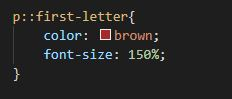
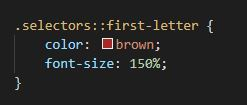
Fixes

Changed region(s): [[0.0302, 0.0909, 0.875, 0.6667], [0.0603, 0.6667, 0.0905, 0.8788], [0.5733, 0.0909, 0.6034, 0.1212]]

diff --git a/index.html b/index.html
@@ -9,12 +9,6 @@
             width: 45%;
         }
 
-        p::first-letter{
-            color: brown;
-            font-size: 150%;
-        }
-
-
         div.desc {
             font-family: 'Lucida Sans', 'Lucida Sans Regular', 'Lucida Grande', 'Lucida Sans Unicode', Geneva, Verdana, sans-serif;
             font-style: oblique;
@@ -107,12 +101,14 @@
         </div>
         
         <h4>CSS Selectors</h4>
-        <p style="width: 90%;">
+        <p class="selectors">
             CSS selections are used within CSS to highlight a certain portion of the HTML sheet and change how it looks, often done by
             selecting a certain type of class or element. However, there are many different selections which can
             let the designer set elements to selected depending on an event. These are split into 5 different types of selectors, the first 
-            being simple selectors.<br>
-            <br>
+            being simple selectors.
+        </p>
+
+        <p class="selectors">
             <span>Simple selectors</span> - Simple selectors get their name from the fact that they operate simply
             by selecting what the element or class is, for example, a paragraph or header. For example, the "Cascading Style Sheets"
             title of this page uses a simple CSS selector to make the element animated.<br>
@@ -120,10 +116,11 @@
                 <a target="_blank" href="simpleselect.JPG">
                     <img src="simpleselect.JPG" alt="SimpleSelectorExample" width="227" height="123">
                 </a>
-                <div class="desc">Figure 2 - Example of a simple selector.
-                </div>
+                <div class="desc">Figure 2 - Example of a simple selector.</div>
             </div>
-            <br>
+        </p>
+
+        <p class="selectors">
             <span>Combinator selectors</span> - Combinator selectors function slightly differently from simple selectors as
             they select elements depending on how they relate to each other. An example of a combinator selector would be selecting all elements
             which are inside another certain element, or elements that follow another element. I have used a combinator selector to make all of
@@ -132,10 +129,11 @@
                 <a target="_blank" href="comboselect.JPG">
                     <img src="comboselect.JPG" alt="CombinatorSelectorExample" width="163" height="66">
                 </a>
-                <div class="desc">Figure 3 - Example of a combinator selector.
-                </div>
+                <div class="desc">Figure 3 - Example of a combinator selector.</div>
             </div>
-            <br>
+        </p>
+
+        <p class="selectors">
             <span>Pseudo-Class selectors</span> - Pseudo-Class selectors refer to a state of a class which is different to the usual. For example,
             This could be when a mouse is hovered over a specific element or whether a link has been visited or not. In this website, I have used
             Pseudo-Class selectors for multiple elements and states, but the best example is that of the box which expands when you hover over it. <br>
@@ -143,14 +141,21 @@
                 <a target="_blank" href="pseudoclass.JPG">
                     <img src="pseudoclass.JPG" alt="PseudoClassSelectorExample" width="228" height="102">
                 </a>
-                <div class="desc">Figure 4 - Example of a pseudo-class selector.
-                </div>
+                <div class="desc">Figure 4 - Example of a pseudo-class selector.</div>
             </div>
-            <br>
+        </p>
+
+        <p class="selectors">
             <span>Pseudo-Elements selectors</span> - Pseudo-Elements allow you to alter a specific part of an elements within a HTML file. This can include
             certain segments of text, or content to precede or follow text, or other content of an element. This can be useful to bring attention to a specific
             reference within an element, or simply stylise a page better. For example, a Pseudo-Element selector has been used to change the first letter of each paragraph
             to a different colour and a larger size.
+            <div class="gallery">
+                <a target="_blank" href="pseudoelement.JPG">
+                    <img src="pseudoelement.JPG" alt="PseudoElementSelectorExample" width="247" height="105">
+                </a>
+                <div class="desc">Figure 5 - Example of a pseudo-element selector.</div>
+            </div>
         </p>
 
         <div class="footer">

diff --git a/mainstyle.css b/mainstyle.css
@@ -74,5 +74,13 @@ h4 ~ .gallery {
     color: red;
 }
 
+.selectors {
+    width: 90%
+}
+
+.selectors::first-letter {
+    color: brown;
+    font-size: 150%;
+}
 
 
